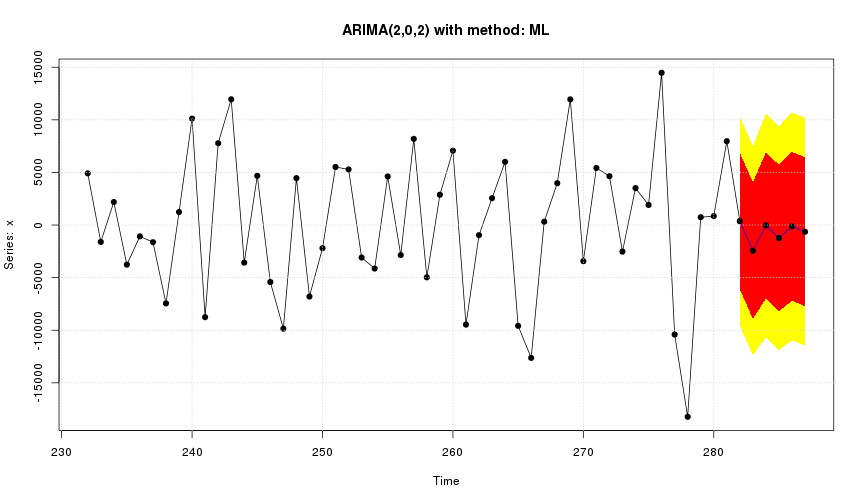
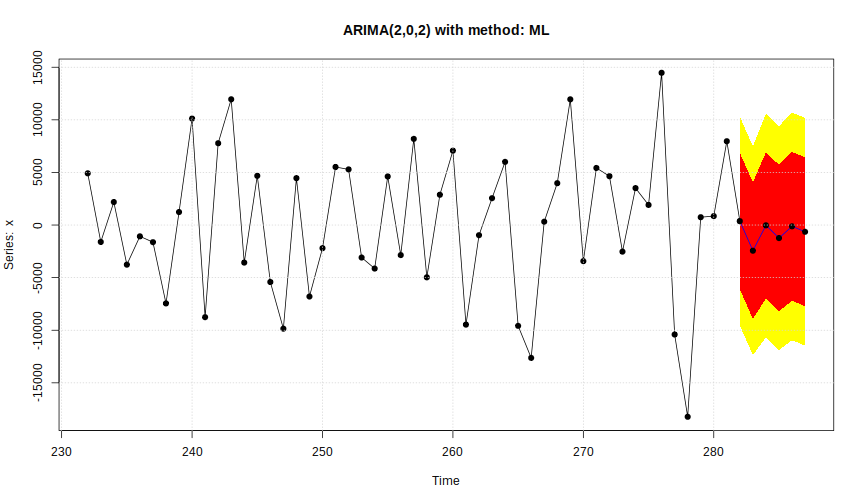
gitbook update

diff --git a/arma/solutions.md b/arma/solutions.md
@@ -6,46 +6,15 @@
 ```r
 > # Solution Exercise 1
 > ar1 <- armaFit(~arma(1,0), data = sales_adj, method = "ML")
-```
-
-```
-Error in as.matrix(data): Fehler bei der Auswertung des Argumentes 'x' bei der Methodenauswahl
-für Funktion 'as.matrix': Fehler: Objekt 'sales_adj' nicht gefunden
-```
-
-```r
 > ma1 <- armaFit(~arma(0,1), data = sales_adj, method = "ML")
-```
-
-```
-Error in as.matrix(data): Fehler bei der Auswertung des Argumentes 'x' bei der Methodenauswahl
-für Funktion 'as.matrix': Fehler: Objekt 'sales_adj' nicht gefunden
-```
-
-```r
 > arma11 <- armaFit(~arma(1,1), data = sales_adj, method = "ML")
-```
-
-```
-Error in as.matrix(data): Fehler bei der Auswertung des Argumentes 'x' bei der Methodenauswahl
-für Funktion 'as.matrix': Fehler: Objekt 'sales_adj' nicht gefunden
-```
-
-```r
 > arma22 <- armaFit(~arma(2,2), data = sales_adj, method = "ML")
-```
-
-```
-Error in as.matrix(data): Fehler bei der Auswertung des Argumentes 'x' bei der Methodenauswahl
-für Funktion 'as.matrix': Fehler: Objekt 'sales_adj' nicht gefunden
-```
-
-```r
+> 
 > ar1@fit$aic
 ```
 
 ```
-Error in eval(expr, envir, enclos): Objekt 'ar1' nicht gefunden
+[1] 5650.282
 ```
 
 ```r
@@ -53,7 +22,7 @@ Error in eval(expr, envir, enclos): Objekt 'ar1' nicht gefunden
 ```
 
 ```
-Error in eval(expr, envir, enclos): Objekt 'ma1' nicht gefunden
+[1] 5650.132
 ```
 
 ```r
@@ -61,7 +30,7 @@ Error in eval(expr, envir, enclos): Objekt 'ma1' nicht gefunden
 ```
 
 ```
-Error in eval(expr, envir, enclos): Objekt 'arma11' nicht gefunden
+[1] 5625.291
 ```
 
 ```r
@@ -69,7 +38,7 @@ Error in eval(expr, envir, enclos): Objekt 'arma11' nicht gefunden
 ```
 
 ```
-Error in eval(expr, envir, enclos): Objekt 'arma22' nicht gefunden
+[1] 5606.146
 ```
 
 ```r
@@ -78,7 +47,7 @@ Error in eval(expr, envir, enclos): Objekt 'arma22' nicht gefunden
 ```
 
 ```
-Error in polyroot(c(1, -arma22@fit$coef[c("ar1", "ar2")])): Objekt 'arma22' nicht gefunden
+[1]  1.319270+0i -1.493212+0i
 ```
 
 ```r
@@ -86,7 +55,7 @@ Error in polyroot(c(1, -arma22@fit$coef[c("ar1", "ar2")])): Objekt 'arma22' nich
 ```
 
 ```
-Error in polyroot(c(1, arma22@fit$coef[c("ma1", "ma2")])): Objekt 'arma22' nicht gefunden
+[1]  1.000006+0i -1.118498+0i
 ```
 
 ```r
@@ -96,14 +65,77 @@ Error in polyroot(c(1, arma22@fit$coef[c("ma1", "ma2")])): Objekt 'arma22' nicht
 > predict(arma22, n.ahead = 6)
 ```
 
+<img src="figure/unnamed-chunk-1-1.png" title="plot of chunk unnamed-chunk-1" alt="plot of chunk unnamed-chunk-1" style="display: block; margin: auto;" />
+
 ```
-Error in predict(arma22, n.ahead = 6): Objekt 'arma22' nicht gefunden
+$pred
+Time Series:
+Start = 282 
+End = 287 
+Frequency = 1 
+[1]   370.6403 -2440.2996   -26.7705 -1240.5703  -122.5735  -640.0144
+
+$se
+Time Series:
+Start = 282 
+End = 287 
+Frequency = 1 
+[1] 5062.622 5063.102 5424.545 5428.537 5521.097 5524.525
+
+$out
+Time Series:
+Start = 282 
+End = 287 
+Frequency = 1 
+        Low 95    Low 80   Forecast  High 80   High 95
+282  -9551.917 -6117.371   370.6403 6858.652 10293.198
+283 -12363.797 -8928.926 -2440.2996 4048.327  7483.198
+284 -10658.684 -6978.605   -26.7705 6925.064 10605.143
+285 -11880.307 -8197.520 -1240.5703 5716.380  9399.166
+286 -10943.725 -7198.144  -122.5735 6952.997 10698.578
+287 -11467.884 -7719.978  -640.0144 6439.949 10187.855
 ```
 
 ```r
 > predict(arma22, n.ahead = 12)
 ```
 
+<img src="figure/unnamed-chunk-1-2.png" title="plot of chunk unnamed-chunk-1" alt="plot of chunk unnamed-chunk-1" style="display: block; margin: auto;" />
+
 ```
-Error in predict(arma22, n.ahead = 12): Objekt 'arma22' nicht gefunden
+$pred
+Time Series:
+Start = 282 
+End = 293 
+Frequency = 1 
+ [1]   370.64031 -2440.29955   -26.77050 -1240.57028  -122.57350
+ [6]  -640.01444  -118.17793  -334.76793   -88.99403  -177.23967
+[11]   -60.27008   -94.73780
+
+$se
+Time Series:
+Start = 282 
+End = 293 
+Frequency = 1 
+ [1] 5062.622 5063.102 5424.545 5428.537 5521.097 5524.525 5549.721
+ [8] 5551.626 5558.732 5559.607 5561.666 5562.028
+
+$out
+Time Series:
+Start = 282 
+End = 293 
+Frequency = 1 
+        Low 95    Low 80   Forecast  High 80   High 95
+282  -9551.917 -6117.371   370.6403 6858.652 10293.198
+283 -12363.797 -8928.926 -2440.2996 4048.327  7483.198
+284 -10658.684 -6978.605   -26.7705 6925.064 10605.143
+285 -11880.307 -8197.520 -1240.5703 5716.380  9399.166
+286 -10943.725 -7198.144  -122.5735 6952.997 10698.578
+287 -11467.884 -7719.978  -640.0144 6439.949 10187.855
+288 -10995.431 -7230.431  -118.1779 6994.075 10759.075
+289 -11215.754 -7449.462  -334.7679 6779.927 10546.219
+290 -10983.908 -7212.796   -88.9940 7034.807 10805.920
+291 -11073.869 -7302.163  -177.2397 6947.683 10719.390
+292 -10960.936 -7187.833   -60.2701 7067.292 10840.396
+293 -10996.113 -7222.764   -94.7378 7033.288 10806.637
 ```

diff --git a/vis/plotly.md b/vis/plotly.md
@@ -32,10 +32,10 @@ Turning this into interactive graphic is very simple thanke to `ggplotly()` func
 ```
 
 ```
-Success! Created a new plotly here -> https://plot.ly/~anre005/545
+Success! Created a new plotly here -> https://plot.ly/~anre005/560
 ```
 
-<iframe height="600" id="igraph" scrolling="no" seamless="seamless" src="https://plot.ly/~anre005/545.embed" width="800" frameBorder="0"></iframe>
+<iframe height="600" id="igraph" scrolling="no" seamless="seamless" src="https://plot.ly/~anre005/560.embed" width="800" frameBorder="0"></iframe>
 
 It is also easy to plot single time series, e.g. the traded volume per day for *BMW*, and even to annotate the plot.
 The help page of the `plot_ly()` function tells us that the data should be a `data.frame`. 
@@ -61,7 +61,7 @@ Again we use our *BMW* `data.frame` from chapter 1.
 ```
 
 ```
-Success! Created a new plotly here -> https://plot.ly/~anre005/547
+Success! Created a new plotly here -> https://plot.ly/~anre005/562
 ```
 
-<iframe height="600" id="igraph" scrolling="no" seamless="seamless" src="https://plot.ly/~anre005/547.embed" width="800" frameBorder="0"></iframe>
+<iframe height="600" id="igraph" scrolling="no" seamless="seamless" src="https://plot.ly/~anre005/562.embed" width="800" frameBorder="0"></iframe>

diff --git a/garch/solutions.md b/garch/solutions.md
@@ -128,7 +128,7 @@ Call:
 
 Mean and Variance Equation:
  data ~ garch(1, 1)
-<environment: 0x53087b8>
+<environment: 0x9aabd98>
  [data = log_returns]
 
 Conditional Distribution:
@@ -153,7 +153,7 @@ Log Likelihood:
  4171.777    normalized:  3.318836 
 
 Description:
- Mon Sep 21 20:27:49 2015 by user:  
+ Mon Sep 21 20:52:51 2015 by user:  
 
 
 Standardised Residuals Tests:
@@ -191,7 +191,7 @@ Call:
 
 Mean and Variance Equation:
  data ~ garch(1, 1)
-<environment: 0x6acc4b8>
+<environment: 0x9ea6708>
  [data = log_returns]
 
 Conditional Distribution:
@@ -217,7 +217,7 @@ Log Likelihood:
  4194.235    normalized:  3.336702 
 
 Description:
- Mon Sep 21 20:27:49 2015 by user:  
+ Mon Sep 21 20:52:51 2015 by user:  
 
 
 Standardised Residuals Tests:

diff --git a/arma/farma.md b/arma/farma.md
@@ -80,7 +80,7 @@ AIC Criterion:        139.14
 ```
 
 Description:
- Mon Sep 21 20:27:46 2015 by user:  
+ Mon Sep 21 20:52:44 2015 by user:  
 ```
 
 <img src="figure/birthsarma_sum-1.png" title="plot of chunk birthsarma_sum" alt="plot of chunk birthsarma_sum" style="display: block; margin: auto;" /><img src="figure/birthsarma_sum-2.png" title="plot of chunk birthsarma_sum" alt="plot of chunk birthsarma_sum" style="display: block; margin: auto;" /><img src="figure/birthsarma_sum-3.png" title="plot of chunk birthsarma_sum" alt="plot of chunk birthsarma_sum" style="display: block; margin: auto;" /><img src="figure/birthsarma_sum-4.png" title="plot of chunk birthsarma_sum" alt="plot of chunk birthsarma_sum" style="display: block; margin: auto;" />

diff --git a/arma/exercises.md b/arma/exercises.md
@@ -9,5 +9,5 @@
     - Check if the best model from exercise 1 is invertible w.r.t \\(\epsilon\\) by using the `polyroot()` function.
 
 3.  **Forecasting**
-    - Predict the values of the detrended and seasonally - adjusted retailers sales time series for the next six months (for the next 12       months)
+    - Predict the values of the detrended and seasonally - adjusted retailers sales time series for the next six months (for the next 12 months)
       using the best model from exercise 1.

diff --git a/RW/seed.md b/RW/seed.md
@@ -8,8 +8,8 @@ rnorm(10, mean = 10, sd = 2)
 ```
 
 ```
-##  [1]  9.180603  5.367401  8.557000 13.528418  9.302157  8.900103 11.489525
-##  [8] 10.494833  8.591165  8.202785
+##  [1]  8.676409 11.241025  9.496123  4.480163 11.054355 10.438237  6.728537
+##  [8]  9.176640  7.851433 11.002539
 ```
 
 
